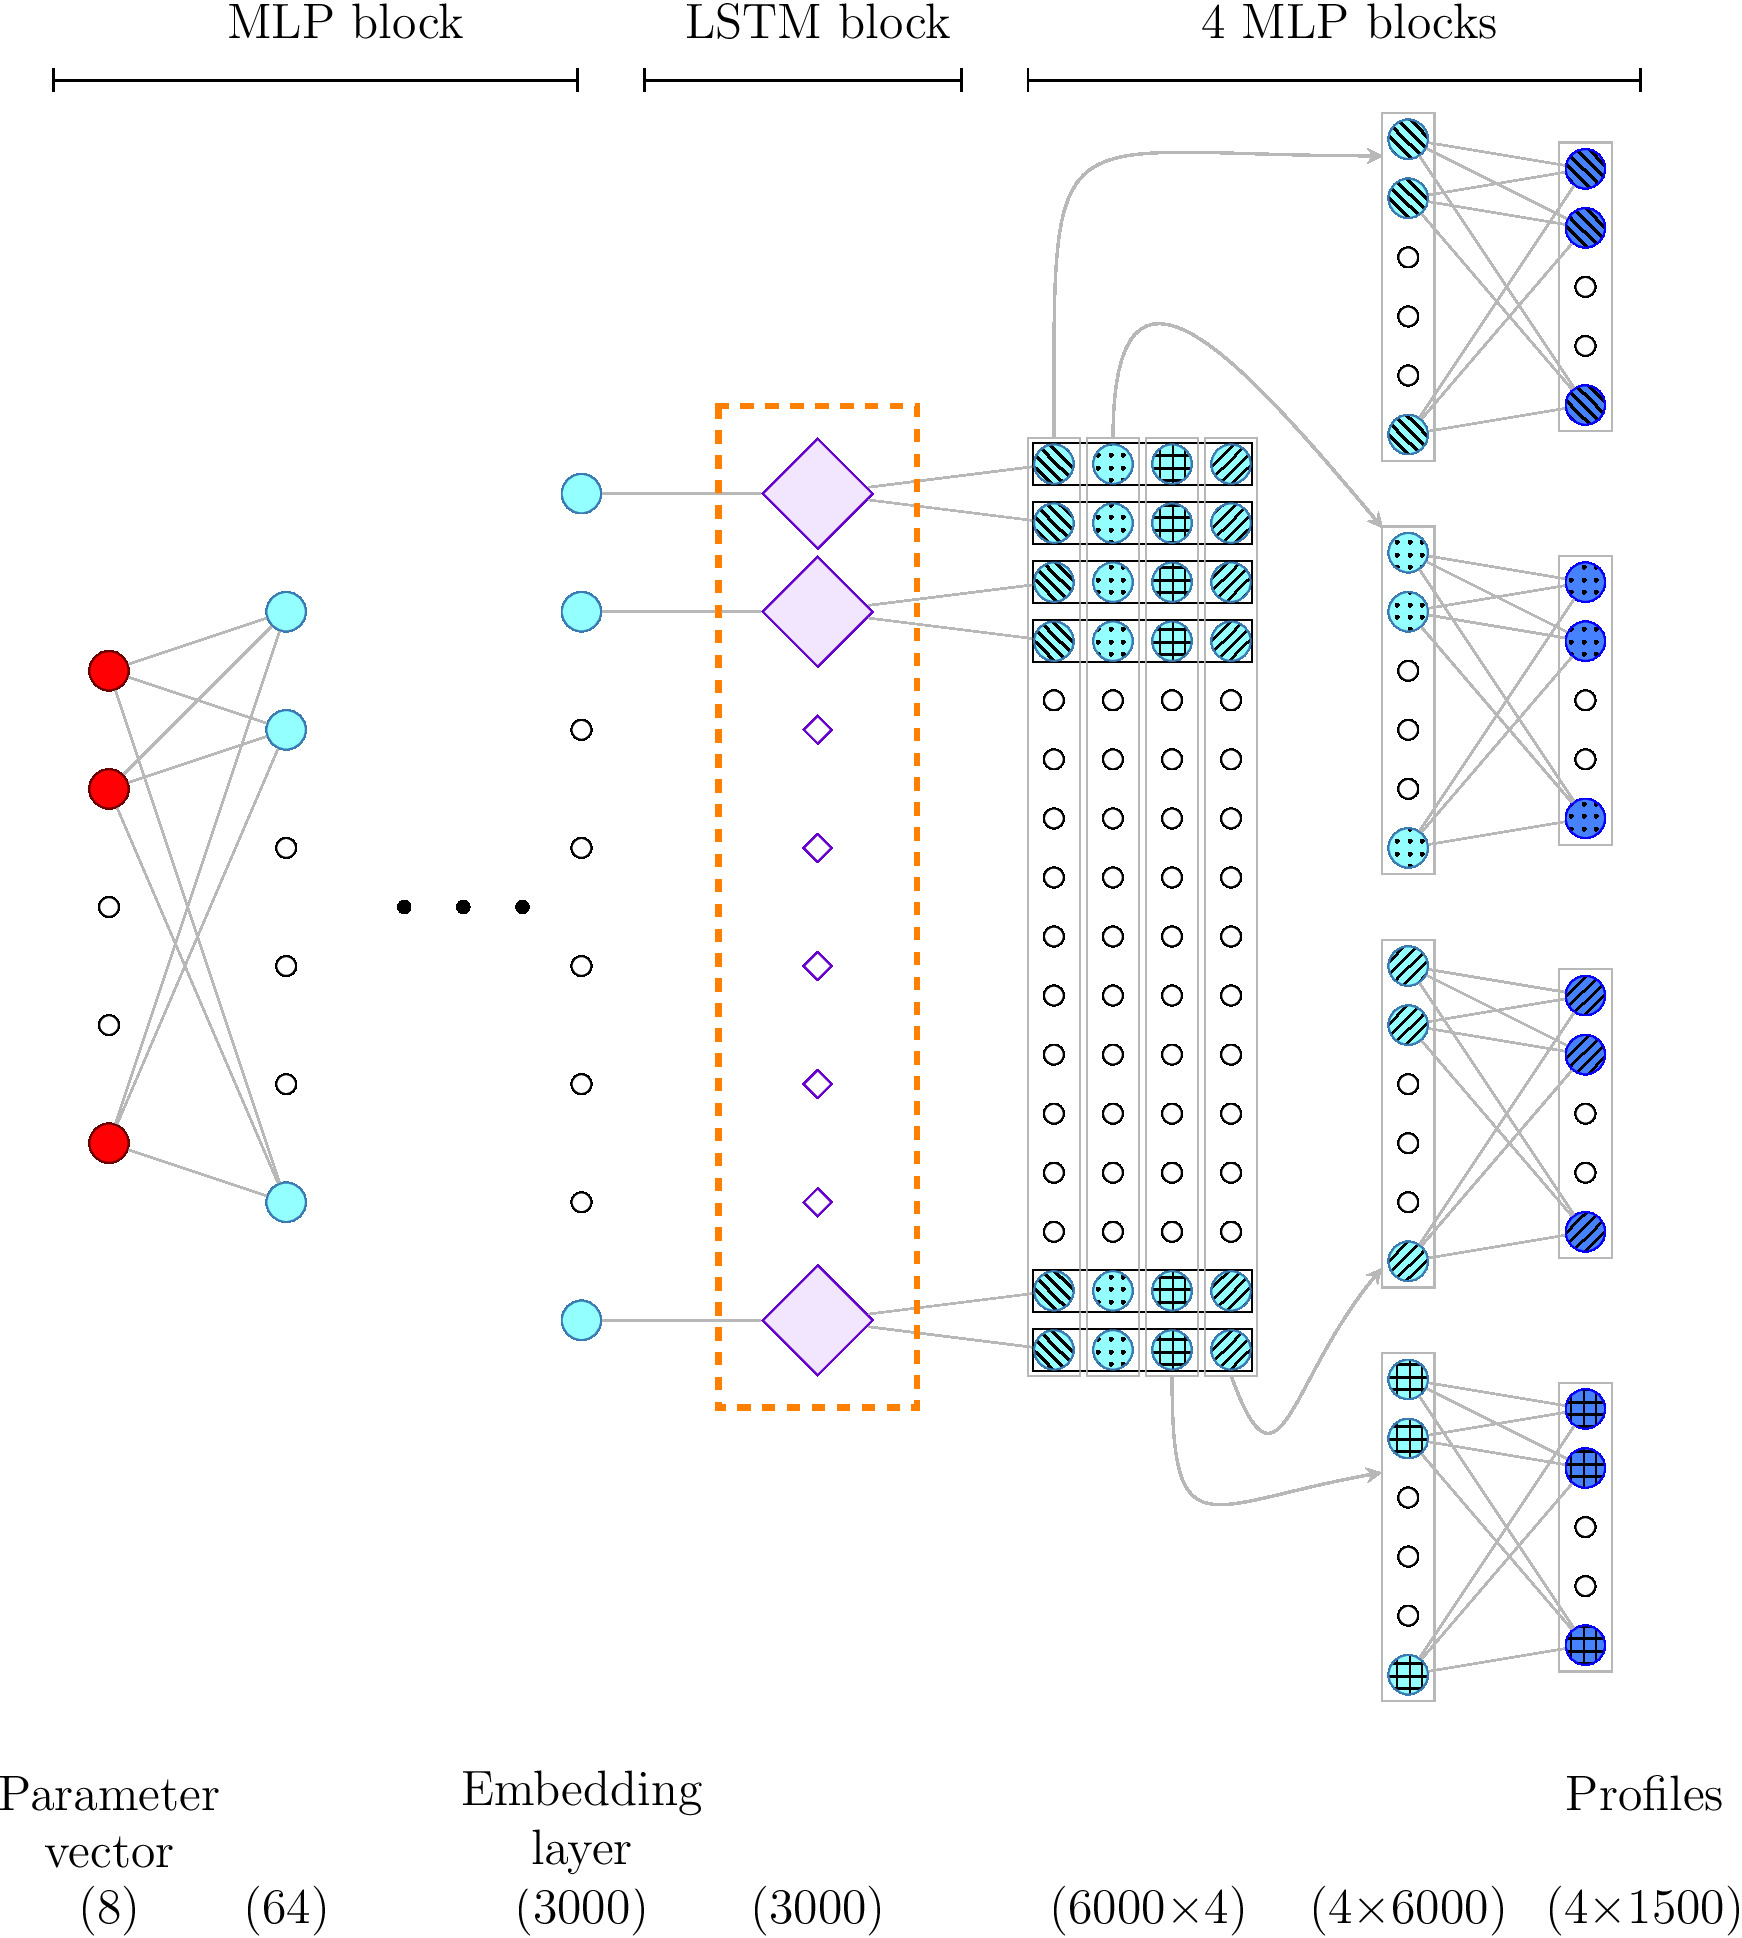
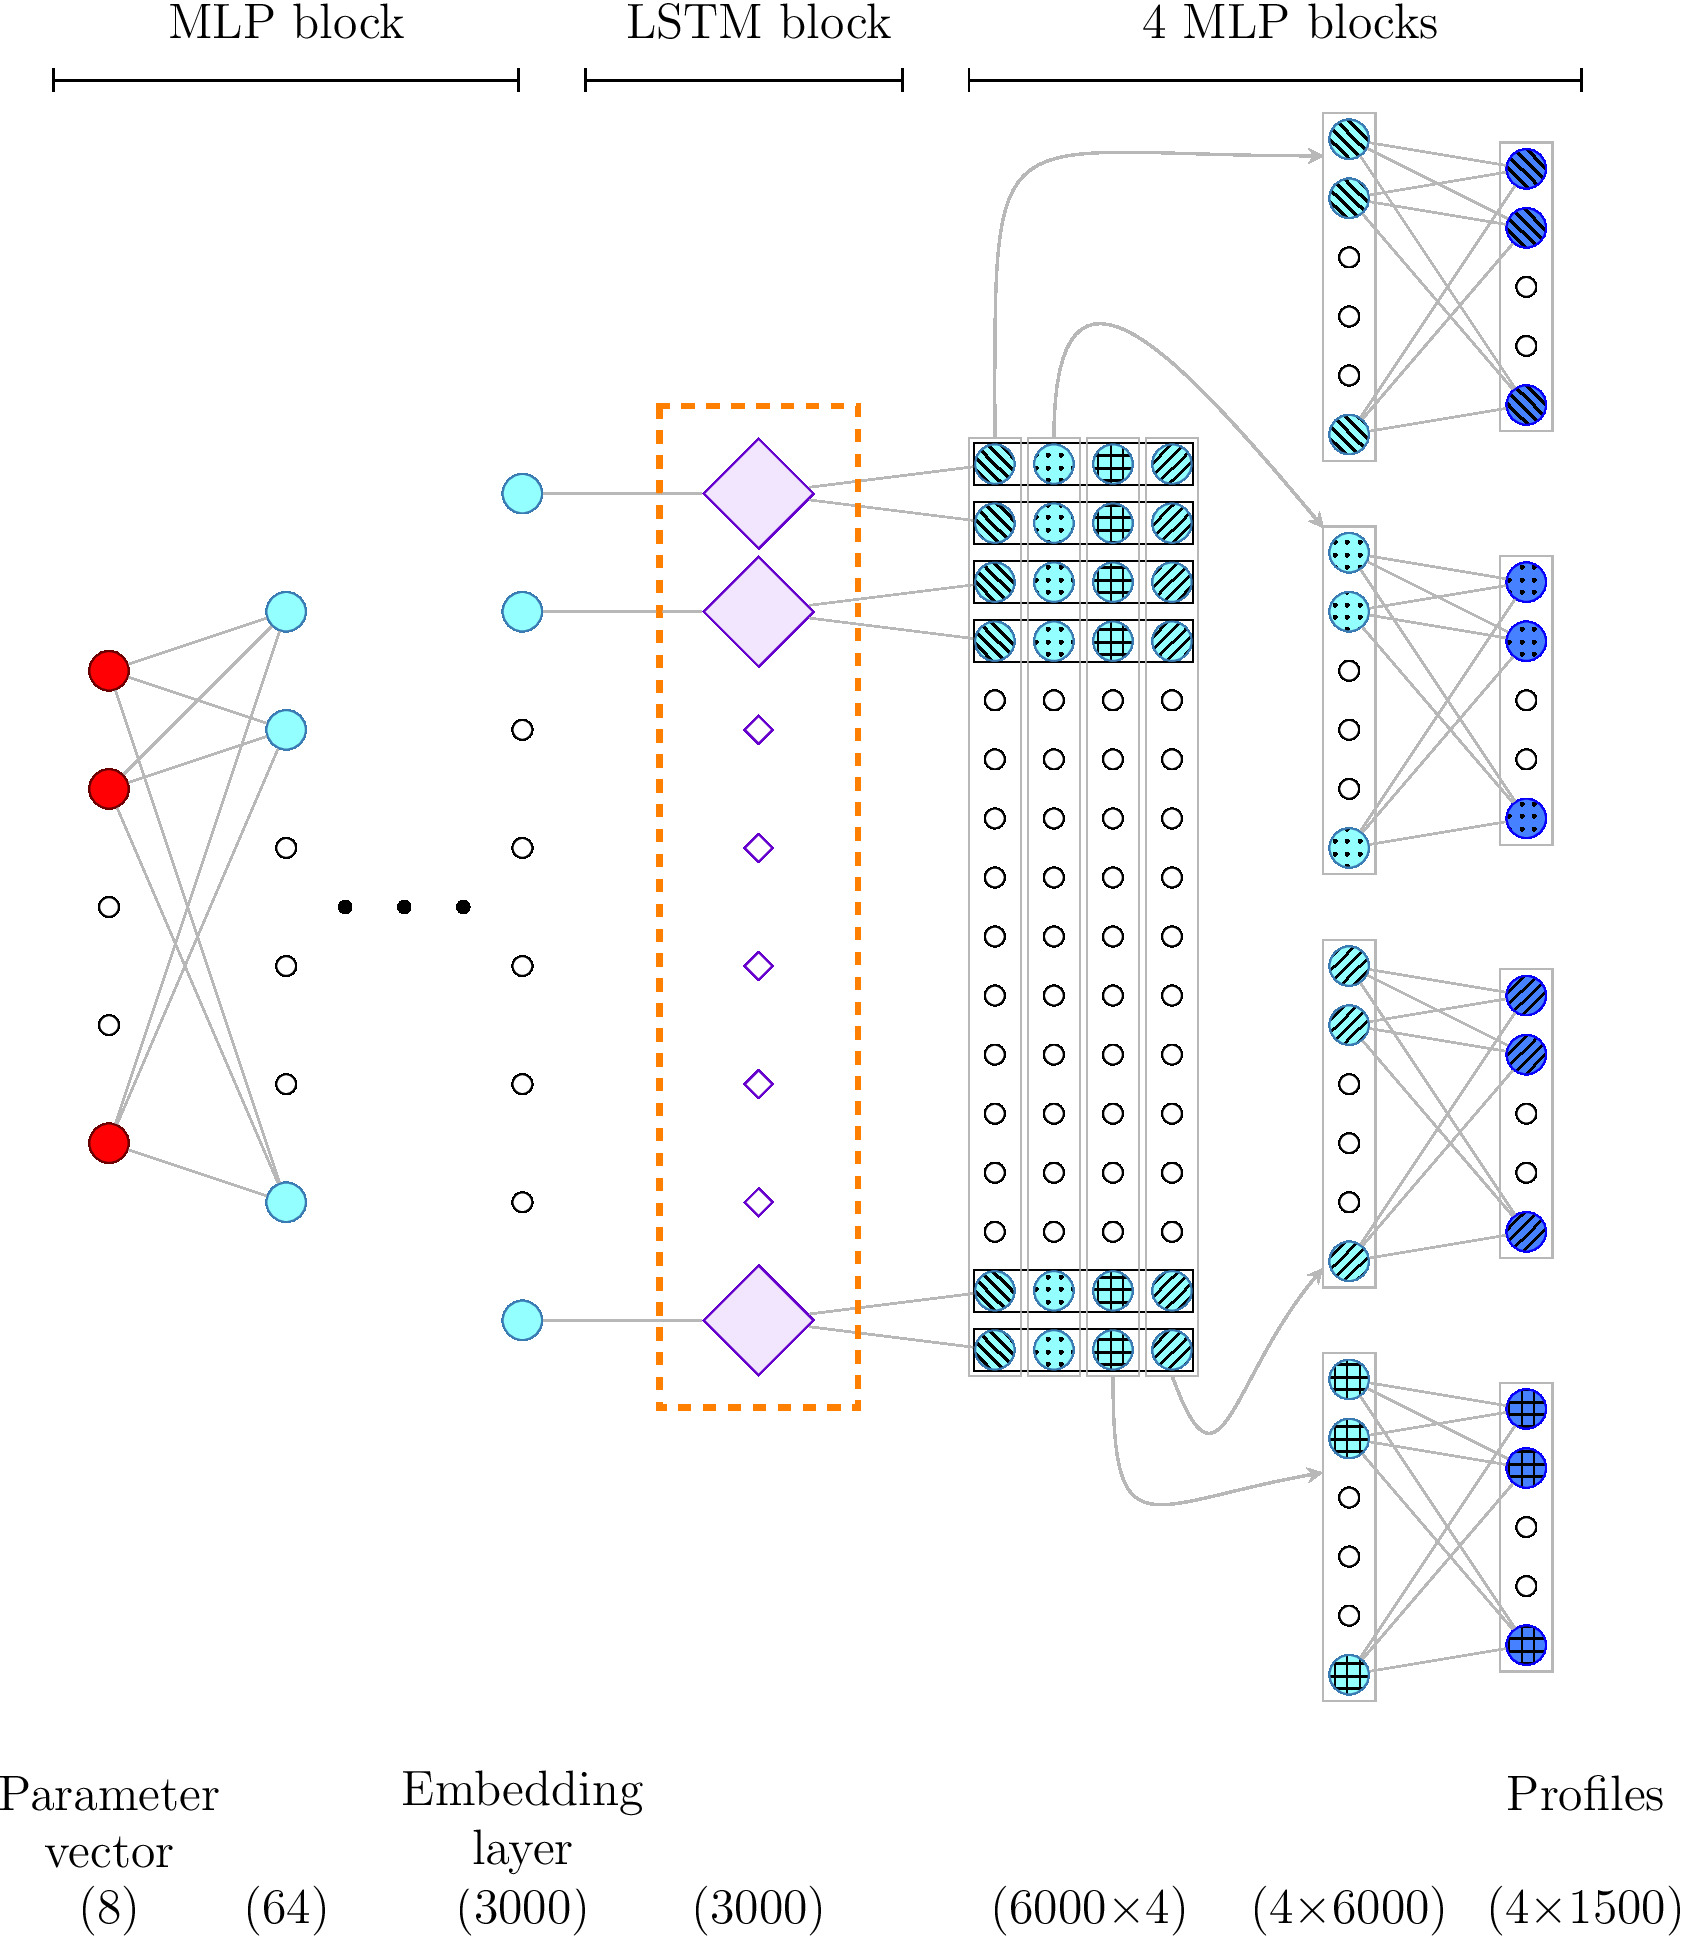
added directory for paper related data

diff --git a/diagrams/CLSTM/CLSTM.tex b/diagrams/CLSTM/CLSTM.tex
@@ -69,19 +69,19 @@
 \begin{tikzpicture}
     \begin{pgfonlayer}{nodelayer}
         % layer 1
-        \node [style={parameter_vector}] (0)      at (1.0, 0) {};
-        \node [style={parameter_vector}] (3)      at (1.0, 3) {};
-        \node [style={parameter_vector}] (4)      at (1.0, 4) {};
-        \node [style={empty_slot}, scale=0.5] (5) at (1.0, 2) {};
-        \node [style={empty_slot}, scale=0.5] (6) at (1.0, 1) {};
+        \node [style={parameter_vector}] (0)      at (1.5, 0) {};
+        \node [style={parameter_vector}] (3)      at (1.5, 3) {};
+        \node [style={parameter_vector}] (4)      at (1.5, 4) {};
+        \node [style={empty_slot}, scale=0.5] (5) at (1.5, 2) {};
+        \node [style={empty_slot}, scale=0.5] (6) at (1.5, 1) {};
 
         %layer 2
-        \node [style={hidden_layer_unit}] (7)      at (2.5, 4.5) {};
-        \node [style={hidden_layer_unit}] (8)      at (2.5, 3.5) {};
-        \node [style={hidden_layer_unit}] (9)      at (2.5, -0.5) {};
-        \node [style={empty_slot}, scale=0.5] (11) at (2.5, 2.5) {};
-        \node [style={empty_slot}, scale=0.5] (12) at (2.5, 1.5) {};
-        \node [style={empty_slot}, scale=0.5] (13) at (2.5, 0.5) {};
+        \node [style={hidden_layer_unit}] (7)      at (3.0, 4.5) {};
+        \node [style={hidden_layer_unit}] (8)      at (3.0, 3.5) {};
+        \node [style={hidden_layer_unit}] (9)      at (3.0, -0.5) {};
+        \node [style={empty_slot}, scale=0.5] (11) at (3.0, 2.5) {};
+        \node [style={empty_slot}, scale=0.5] (12) at (3.0, 1.5) {};
+        \node [style={empty_slot}, scale=0.5] (13) at (3.0, 0.5) {};
 
         %ellipsis
         \node [style=ellipsis, scale=0.3] (34) at (3.5, 2) {};
@@ -256,8 +256,8 @@
 %         \node [style={empty_slot}, scale=0.5] (78) at (11, 3) {};
         
         % neuron numbers at the bottom        
-        \node [style=myText] (79) at (1.0, -6.5) {\large (8)};
-        \node [style=myText] (80) at (2.5, -6.5) {\large (64)};
+        \node [style=myText] (79) at (1.5, -6.5) {\large (8)};
+        \node [style=myText] (80) at (3.0, -6.5) {\large (64)};
         \node [style=myText] (81) at (5,   -6.5) {\large (3000)};
         \node [style=myText] (82) at (7,   -6.5) {\large (3000)};
         \node [style=myText] (83) at (9.8, -6.5) {\large (6000$\times$4)};
@@ -265,8 +265,8 @@
         \node [style=myText] (85) at (14,  -6.5) {\large (4$\times$1500)};
         
         % description at the bottom 
-        \node [style=myText] (90) at (1.0, -5.5) {\large Parameter};
-        \node [style=myText] (91) at (1.0, -6.0) {\large vector};
+        \node [style=myText] (90) at (1.5, -5.5) {\large Parameter};
+        \node [style=myText] (91) at (1.5, -6.0) {\large vector};
 
         
         \node [style=myText] (92) at (5, -5.5) {\large Embedding};
@@ -280,7 +280,7 @@
         \node [style=myText] (97) at (11.5, 9.5) {\large 4 MLP blocks};
         
         % epmty nodes for docking the lines at the top 
-        \node [style=none] (100) at (0.5,   9.0) {};
+        \node [style=none] (100) at (1.0,   9.0) {};
         \node [style=none] (101) at (5.0,   9.0) {};                                           
         \node [style=none] (102) at (5.5,   9.0) {};        
         \node [style=none] (103) at (8.25,  9.0) {};                                           

diff --git a/paper_data/README.md b/paper_data/README.md
@@ -1,0 +1,3 @@
+# ML-RT data
+This directory contains fully trained models, other run data data and some custom plot scripts relevant to the project paper (TODO: include ref)
+
